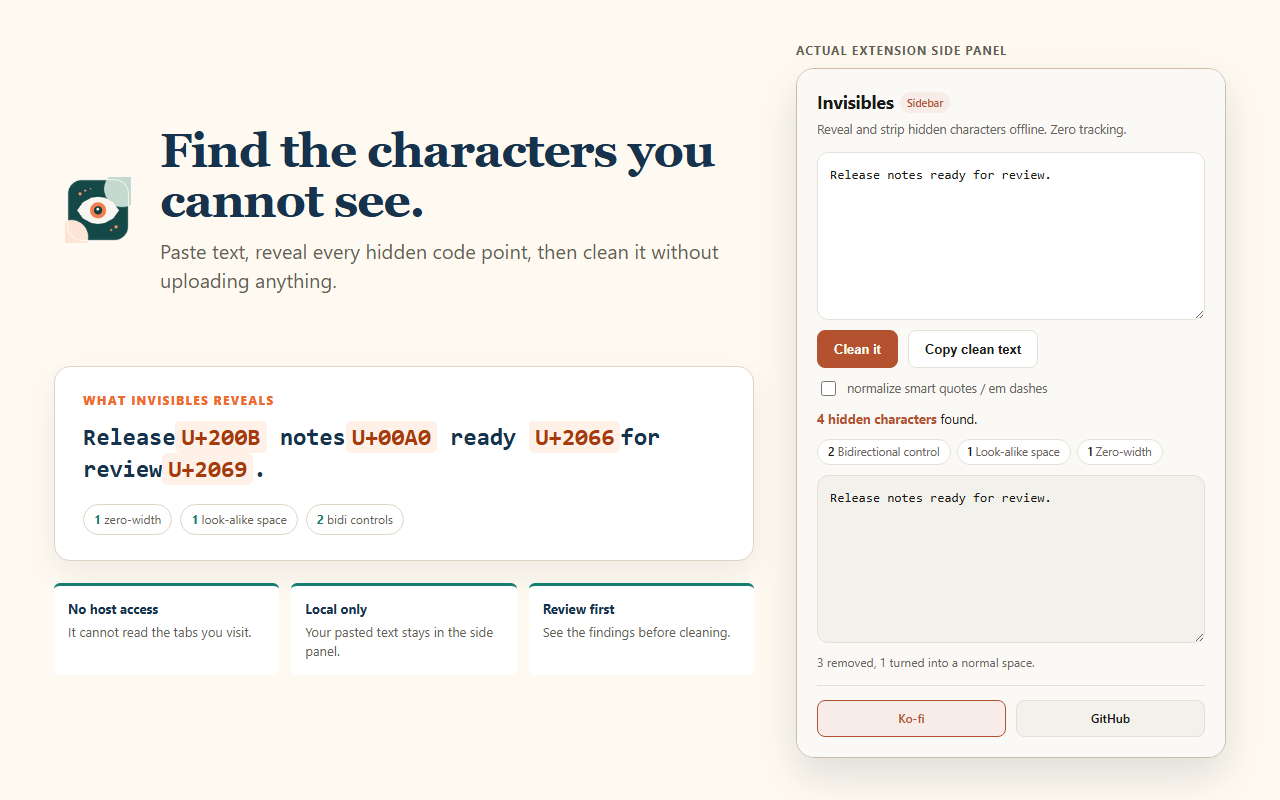
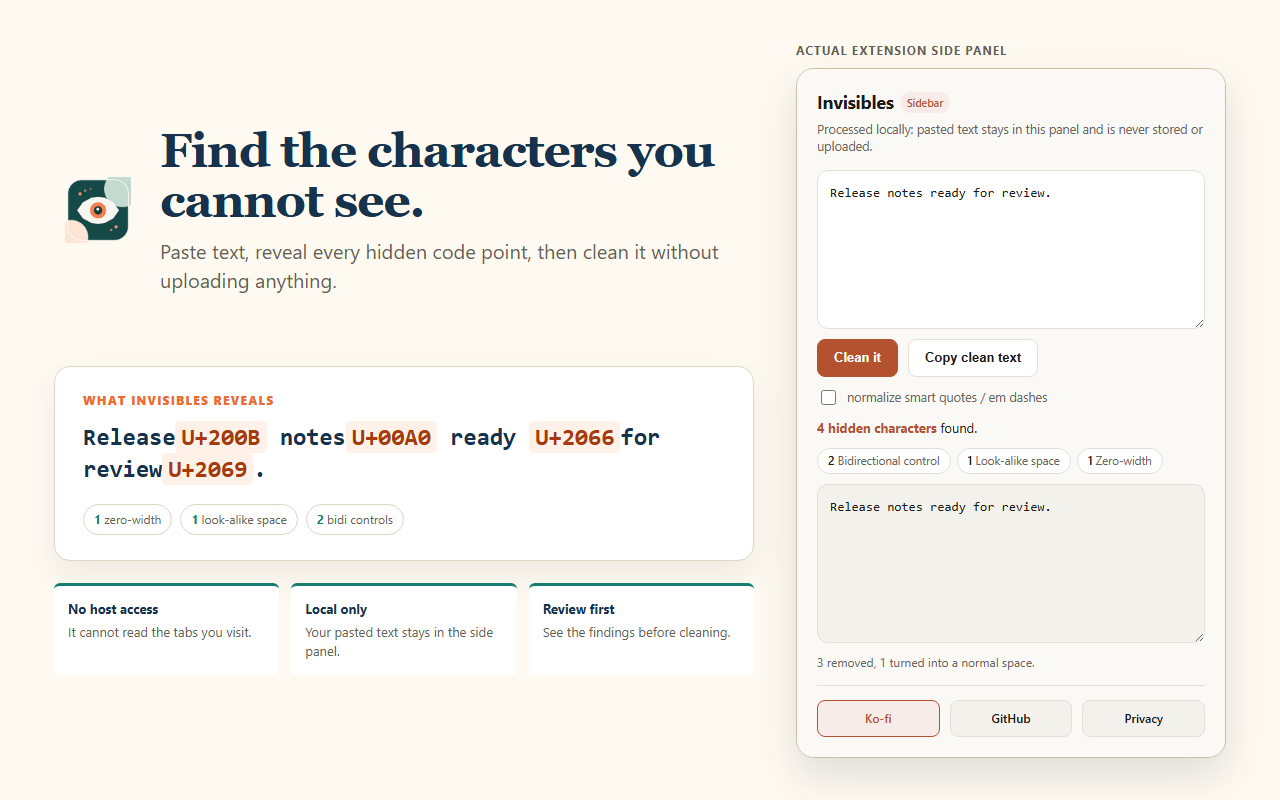
clarify local text handling

diff --git a/extension/sidepanel.html b/extension/sidepanel.html
@@ -71,15 +71,15 @@
  padding:8px;border-radius:var(--r-sm);min-height:36px;display:flex;align-items:center;justify-content:center}
  .kofi{background:var(--clay-soft);color:var(--clay);border:1px solid var(--clay)}
  .kofi:hover{background:var(--clay);color:var(--clay-ink)}
- .gh{background:var(--raised);color:var(--ink);border:1px solid var(--line)}
- .gh:hover{border-color:var(--muted)}
+ .gh,.privacy{background:var(--raised);color:var(--ink);border:1px solid var(--line)}
+ .gh:hover,.privacy:hover{border-color:var(--muted)}
  @media (prefers-reduced-motion:reduce){*{transition-duration:.01ms!important}}
 </style>
 </head>
 <body>
  <div class="header">
  <h1>Invisibles <span class="badge">Sidebar</span></h1>
- <p class="sub">Reveal and strip hidden characters offline. Zero tracking.</p>
+ <p class="sub">Processed locally: pasted text stays in this panel and is never stored or uploaded.</p>
  </div>
 
  <div class="content">
@@ -105,6 +105,7 @@
  <div class="links">
  <a class="kofi" href="https://ko-fi.com/jju1s" target="_blank" rel="noopener">Ko-fi</a>
  <a class="gh" href="https://github.com/cig13zs/invisibles" target="_blank" rel="noopener">GitHub</a>
+ <a class="privacy" href="https://cig13zs.github.io/invisibles/privacy.html" target="_blank" rel="noopener">Privacy</a>
  </div>
  </div>
 

diff --git a/site.test.js b/site.test.js
@@ -11,10 +11,13 @@ assert.match(panel, /name="viewport"/);
 assert.match(panel, /name="description"/);
 assert.match(panel, /<script src="core\.js"><\/script>/);
 assert.match(panel, /<script src="popup\.js"><\/script>/);
+assert.match(panel, /pasted text stays in this panel and is never stored or uploaded/i);
+assert.match(panel, /href="https:\/\/cig13zs\.github\.io\/invisibles\/privacy\.html"/);
 assert.ok(!panel.includes('=\\'), 'side-panel attributes must not use escaped pseudo-quotes');
 assert.ok(!panel.includes('\\>'), 'side-panel tags must close normally');
 
 assert.deepStrictEqual(manifest.permissions, ['sidePanel']);
+assert.strictEqual(manifest.version, '1.2.2');
 assert.ok(!manifest.host_permissions, 'the extension must not request host access');
 assert.strictEqual(manifest.side_panel.default_path, 'sidepanel.html');
 for (const iconPath of new Set([

diff --git a/store-assets.test.js b/store-assets.test.js
@@ -39,7 +39,8 @@ assert.ok(bootstrap.includes("mode === 'review'"));
 
 const listing = fs.readFileSync(path.join(__dirname, 'store-assets', 'listing.txt'), 'utf8');
 assert.match(listing, /no host access/i);
-assert.match(listing, /not collected or transmitted/i);
+assert.match(listing, /processed only in memory/i);
+assert.match(listing, /never stored or transmitted/i);
 assert.match(listing, /identifies characters, not authorship or intent/i);
 assert.doesNotMatch(listing, /detects ai writing|guaranteed|100% safe/i);
 

diff --git a/store-assets/README.md b/store-assets/README.md
@@ -8,11 +8,11 @@ python scripts/package.py --check
 python tests/package.test.py
 ```
 
-Upload `dist/invisibles-1.2.1.zip` and compare its SHA-256 value with the checked checksum sidecar.
+Upload `dist/invisibles-1.2.2.zip` and compare its SHA-256 value with the checked checksum sidecar.
 
 Expected SHA-256:
 
[2 lines of base64/hex data omitted]
 
 Use the copy in `listing.txt`, category `Tools`, and the public privacy URL:
 
@@ -51,7 +51,7 @@ Set `INVISIBLES_CHROME` if Chrome is not installed at a standard path.
 - Single purpose: `Reveal and clean hidden Unicode in text the user pastes into the side panel.`
 - `sidePanel` justification: `Opens the text inspector beside the current tab. It does not grant access to page content.`
 - Remote code: `No`
-- Data handling: user-provided text is processed transiently in page memory. It is not collected, stored, or transmitted.
+- Data handling: user-provided text stays in the side panel, is processed transiently in page memory, and is never stored or transmitted. This is disclosed in the panel before the user enters text.
 
 Use `listing.txt` for the full description. Upload the 128 px icon from
 `extension/icons/`, both 1280 x 800 screenshots, and the 440 x 280 promo tile.

diff --git a/README.md b/README.md
@@ -44,7 +44,7 @@ system does not handle typographic characters reliably.
 
 ## Browser extension
 
-Opens directly as a Chrome Side Panel. Click the toolbar icon, and it docks cleanly on the side of your browser without floating in front of your page content. Paste, clean, copy. It declares no remote permissions and no host access, so it cannot read any page you visit, and it works completely offline.
+Opens directly as a Chrome Side Panel. Click the toolbar icon, and it docks cleanly on the side of your browser without floating in front of your page content. Paste, clean, copy. The panel states before input that pasted text stays in the panel and is never stored or uploaded. It declares no remote permissions and no host access, so it cannot read any page you visit, and it works completely offline.
 
 Load it unpacked in Chrome, Edge, Brave or Opera:
 
